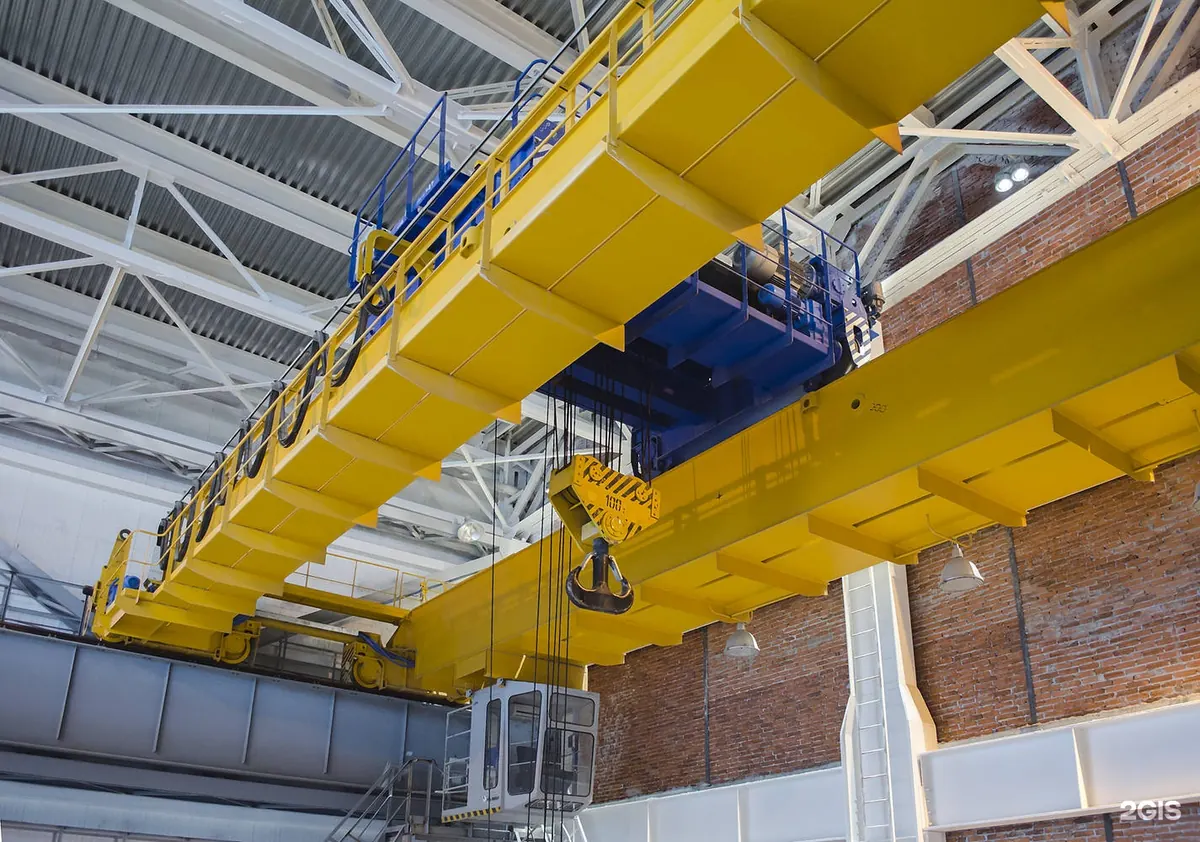
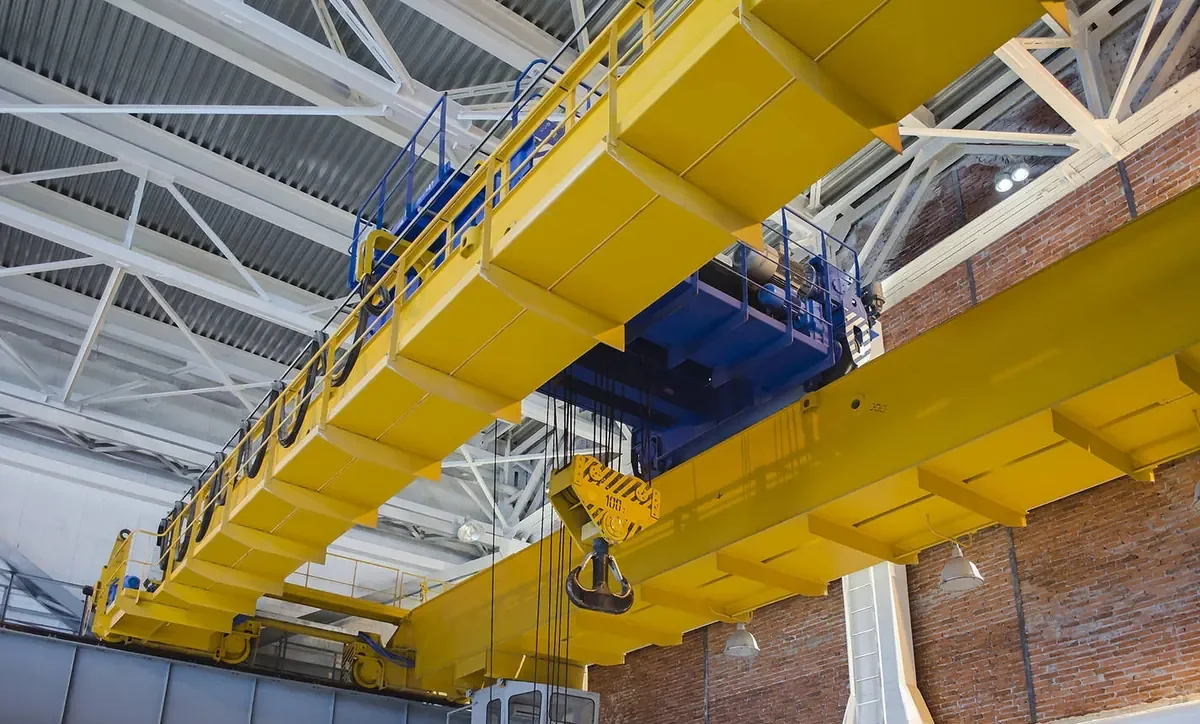
Живые фото вместо схем в «Видах и исполнениях», чужие водяные знаки убраны
- траверсы в каталоге: вместо видео сварки - фото 30-тонной траверсы на объекте
- мостовые, козловые, консольные краны и кран-балки: схемы заменены реальными
  фото клиента, как в грейферах, талях и траверсах; блок SVG-схем и его стили удалены
- козловые переразмечены по каталогу клиента: однобалочный, двухбалочный,
  полукозловой, уличного исполнения - под каждый вид есть свой снимок
- сняты карточки без фото: «Передвижной» у консольных, «Ручная» и «С двумя талями»
  у кран-балок - вернём, когда клиент пришлёт снимки
- убрано фото тали с водяным знаком чужого завода «ЕВРОКРАН» (было на карточке
  каталога и в модалке), поставлена канатная таль клиента
- у кадра площадки обслуживания срезан угол с меткой 2GIS
- удалён мини-козловой кран с водяным знаком стороннего поставщика
- два кропа 12:7 под плитки: var-gantry-double, var-jib-column
- бамп версии ассетов до 20260907-2

Claude-Session: https://claude.ai/code/session_01Bpo1JyxyDErRGTxL1pp3Qp

diff --git a/details.js b/details.js
@@ -1,28 +1,6 @@
 /* CRANE ENGINEERING - разделы каталога и металлообработки (модальные карточки) */
 'use strict';
 
-/* ---------- схемы исполнений (единый стиль: жёлтая несущая, стальная обвязка) ---------- */
-const SCH = {
-  // мостовые
-  bridgeSingle: '<svg viewBox="0 0 120 70"><path d="M8 14h104" class="s-rail"/><rect x="18" y="20" width="84" height="7" class="s-beam"/><path d="M18 20v-6h10v6M92 20v-6h10v6" class="s-steel"/><path d="M60 27v14" class="s-line"/><path d="M54 41h12v7H54z" class="s-steel-f"/><path d="M60 48v6" class="s-line"/><path d="M60 54a4 4 0 1 0 4 4" class="s-hook"/></svg>',
-  bridgeDouble: '<svg viewBox="0 0 120 70"><path d="M8 14h104" class="s-rail"/><rect x="18" y="19" width="84" height="6" class="s-beam"/><rect x="18" y="31" width="84" height="6" class="s-beam"/><path d="M18 19v-5h10v5M92 19v-5h10v5" class="s-steel"/><rect x="50" y="15" width="20" height="8" class="s-steel-f"/><path d="M60 37v8" class="s-line"/><path d="M54 45h12v7H54z" class="s-steel-f"/><path d="M60 52v4" class="s-line"/><path d="M60 56a4 4 0 1 0 4 4" class="s-hook"/></svg>',
-  bridgeSusp: '<svg viewBox="0 0 120 70"><path d="M8 10h104" class="s-rail"/><path d="M24 10v8M96 10v8" class="s-steel"/><rect x="18" y="18" width="84" height="7" class="s-beam"/><path d="M60 25v12" class="s-line"/><path d="M54 37h12v7H54z" class="s-steel-f"/><path d="M60 44v6" class="s-line"/><path d="M60 50a4 4 0 1 0 4 4" class="s-hook"/></svg>',
-  // козловые
-  gantryPlain: '<svg viewBox="0 0 120 70"><rect x="20" y="14" width="80" height="7" class="s-beam"/><path d="M26 21 20 58M94 21l6 37M8 58h104" class="s-steel"/><path d="M60 21v12" class="s-line"/><path d="M54 33h12v7H54z" class="s-steel-f"/><path d="M60 40v6" class="s-line"/><path d="M60 46a4 4 0 1 0 4 4" class="s-hook"/></svg>',
-  gantryOne: '<svg viewBox="0 0 120 70"><rect x="8" y="14" width="92" height="7" class="s-beam"/><path d="M34 21 28 58M94 21l6 37M8 58h104" class="s-steel"/><path d="M22 21v10" class="s-line"/><path d="M16 31h12v7H16z" class="s-steel-f"/><path d="M22 38v5" class="s-line"/><path d="M22 43a4 4 0 1 0 4 4" class="s-hook"/></svg>',
-  gantryTwo: '<svg viewBox="0 0 120 70"><rect x="6" y="14" width="108" height="7" class="s-beam"/><path d="M38 21 32 58M82 21l6 37M8 58h104" class="s-steel"/><path d="M60 21v12" class="s-line"/><path d="M54 33h12v7H54z" class="s-steel-f"/><path d="M60 40v6" class="s-line"/><path d="M60 46a4 4 0 1 0 4 4" class="s-hook"/></svg>',
-  gantryMini: '<svg viewBox="0 0 120 70"><rect x="34" y="20" width="52" height="6" class="s-beam"/><path d="M40 26 36 54M80 26l4 28" class="s-steel"/><circle cx="35" cy="57" r="4" class="s-steel"/><circle cx="85" cy="57" r="4" class="s-steel"/><path d="M60 26v10" class="s-line"/><path d="M55 36h10v6H55z" class="s-steel-f"/><path d="M60 42v5" class="s-line"/><path d="M60 47a3 3 0 1 0 3 3" class="s-hook"/></svg>',
-  // консольные
-  jibColumn: '<svg viewBox="0 0 120 70"><rect x="26" y="12" width="9" height="46" class="s-steel-f"/><rect x="30" y="14" width="66" height="6" class="s-beam"/><path d="M32 34 60 20" class="s-steel"/><path d="M84 20v12" class="s-line"/><path d="M79 32h10v6H79z" class="s-steel-f"/><path d="M84 38v6" class="s-line"/><path d="M84 44a4 4 0 1 0 4 4" class="s-hook"/><path d="M16 58h32" class="s-rail"/></svg>',
-  jibWall: '<svg viewBox="0 0 120 70"><path d="M18 8v54" class="s-rail"/><rect x="22" y="16" width="72" height="6" class="s-beam"/><path d="M22 40 52 22" class="s-steel"/><path d="M82 22v12" class="s-line"/><path d="M77 34h10v6H77z" class="s-steel-f"/><path d="M82 40v6" class="s-line"/><path d="M82 46a4 4 0 1 0 4 4" class="s-hook"/></svg>',
-  jibMobile: '<svg viewBox="0 0 120 70"><rect x="36" y="16" width="9" height="38" class="s-steel-f"/><rect x="40" y="18" width="52" height="6" class="s-beam"/><path d="M42 36 66 24" class="s-steel"/><path d="M82 24v10" class="s-line"/><path d="M77 34h10v6H77z" class="s-steel-f"/><path d="M82 40v5" class="s-line"/><path d="M82 45a4 4 0 1 0 4 4" class="s-hook"/><rect x="26" y="54" width="30" height="5" class="s-steel"/><circle cx="32" cy="62" r="4" class="s-steel"/><circle cx="50" cy="62" r="4" class="s-steel"/></svg>',
-  // кран-балки
-  beamSupport: '<svg viewBox="0 0 120 70"><path d="M10 18h100" class="s-rail"/><rect x="20" y="24" width="80" height="6" class="s-beam"/><path d="M20 24v-6h8v6M92 24v-6h8v6" class="s-steel"/><path d="M60 30v10" class="s-line"/><path d="M54 40h12v7H54z" class="s-steel-f"/><path d="M60 47v6" class="s-line"/><path d="M60 53a4 4 0 1 0 4 4" class="s-hook"/></svg>',
-  beamSusp: '<svg viewBox="0 0 120 70"><path d="M10 12h100" class="s-rail"/><path d="M28 12v8M92 12v8" class="s-steel"/><rect x="20" y="20" width="80" height="6" class="s-beam"/><path d="M60 26v12" class="s-line"/><path d="M54 38h12v7H54z" class="s-steel-f"/><path d="M60 45v6" class="s-line"/><path d="M60 51a4 4 0 1 0 4 4" class="s-hook"/></svg>',
-  beamManual: '<svg viewBox="0 0 120 70"><rect x="20" y="20" width="80" height="6" class="s-beam"/><path d="M20 20v-6h8v6M92 20v-6h8v6" class="s-steel"/><path d="M60 26v8" class="s-line"/><path d="M55 34h10v6H55z" class="s-steel-f"/><path d="M64 40v14" class="s-chain"/><path d="M60 40v6" class="s-line"/><path d="M60 46a4 4 0 1 0 4 4" class="s-hook"/></svg>',
-  beamDouble: '<svg viewBox="0 0 120 70"><path d="M10 18h100" class="s-rail"/><rect x="20" y="24" width="80" height="6" class="s-beam"/><path d="M20 24v-6h8v6M92 24v-6h8v6" class="s-steel"/><path d="M40 30v10M80 30v10" class="s-line"/><path d="M34 40h12v7H34zM74 40h12v7H74z" class="s-steel-f"/><path d="M40 47v5M80 47v5" class="s-line"/><path d="M40 52a3 3 0 1 0 3 3M80 52a3 3 0 1 0 3 3" class="s-hook"/></svg>'
-};
-
 /* ---------- данные разделов ---------- */
 const DETAILS = {
   /* ===== КРАНЫ ===== */
@@ -32,9 +10,9 @@ const DETAILS = {
     kk: { t: 'Көпірлі крандар', lead: 'Цехтың негізгі краны: аралықты толық жауып, астындағы бүкіл алаңда жұмыс істейді.' },
     en: { t: 'Overhead cranes', lead: 'The main crane of a workshop: spans the full bay and works across the whole area below.' },
     variants: [
-      { s: SCH.bridgeSingle, ru: ['Однобалочный опорный', 'до 20 т, ходит по подкрановым путям'], kk: ['Бір арқалықты тіреуішті', '20 т-ға дейін, кран асты жолымен жүреді'], en: ['Single-girder, top-running', 'up to 20 t, runs on runway rails'] },
-      { s: SCH.bridgeDouble, ru: ['Двухбалочный опорный', 'до 200 т, большая высота подъёма'], kk: ['Екі арқалықты тіреуішті', '200 т-ға дейін, көтеру биіктігі жоғары'], en: ['Double-girder, top-running', 'up to 200 t, greater lifting height'] },
-      { s: SCH.bridgeSusp, ru: ['Подвесной', 'крепится к фермам, экономит высоту'], kk: ['Аспалы', 'фермаға бекітіледі, биіктікті үнемдейді'], en: ['Underhung', 'fixed to roof trusses, saves headroom'] }
+      { p: 'assets/bridge-single-top.webp', ru: ['Однобалочный опорный', 'до 20 т, ходит по подкрановым путям'], kk: ['Бір арқалықты тіреуішті', '20 т-ға дейін, кран асты жолымен жүреді'], en: ['Single-girder, top-running', 'up to 20 t, runs on runway rails'] },
+      { p: 'assets/bridge-double-light.webp', ru: ['Двухбалочный опорный', 'до 200 т, большая высота подъёма'], kk: ['Екі арқалықты тіреуішті', '200 т-ға дейін, көтеру биіктігі жоғары'], en: ['Double-girder, top-running', 'up to 200 t, greater lifting height'] },
+      { p: 'assets/bridge-susp-yellow.webp', ru: ['Подвесной', 'крепится к фермам, экономит высоту'], kk: ['Аспалы', 'фермаға бекітіледі, биіктікті үнемдейді'], en: ['Underhung', 'fixed to roof trusses, saves headroom'] }
     ],
     specs: {
       ru: [['Грузоподъёмность', '0,5-200 т'], ['Пролёт', '4,5-34 м'], ['Высота подъёма', 'до 30 м'], ['Режим работы', 'А3-А6'], ['Управление', 'с пола, радио, из кабины']],
@@ -45,7 +23,7 @@ const DETAILS = {
       { src: 'assets/bridge-double-close.webp', ru: 'Двухбалочный опорный кран в пролёте', kk: 'Аралықтағы екі арқалықты тіреуішті кран', en: 'Double-girder top-running crane in the bay' },
       { src: 'assets/bridge-double-hall.webp', ru: 'Кран в новом производственном корпусе', kk: 'Жаңа өндірістік корпустағы кран', en: 'Crane in a new production building' },
       { src: 'assets/bridge-double-coils.webp', ru: 'Работа с рулонами металла', kk: 'Металл орамдарымен жұмыс', en: 'Handling steel coils' },
-      { src: 'assets/bridge-double-walkway.webp', ru: 'Площадка обслуживания вдоль моста', kk: 'Көпір бойындағы қызмет көрсету алаңы', en: 'Service walkway along the bridge' },
+      { src: 'assets/bridge-double-walkway.webp?v=20260907', ru: 'Площадка обслуживания вдоль моста', kk: 'Көпір бойындағы қызмет көрсету алаңы', en: 'Service walkway along the bridge' },
       { src: 'assets/bridge-single-top.webp', ru: 'Однобалочный опорный кран', kk: 'Бір арқалықты тіреуішті кран', en: 'Single-girder top-running crane' },
       { src: 'assets/bridge-double-light.webp', ru: 'Кран над сборочным участком', kk: 'Құрастыру учаскесінің үстіндегі кран', en: 'Crane over the assembly area' }
     ]
@@ -56,10 +34,10 @@ const DETAILS = {
     kk: { t: 'Мосы крандар', lead: 'Ғимарат жоқ жерде жұмыс істейді: ашық аспан астындағы қоймалар, полигондар, контейнер алаңдары.' },
     en: { t: 'Gantry cranes', lead: 'For sites without a building: open storage yards, laydown areas, container terminals.' },
     variants: [
-      { s: SCH.gantryPlain, ru: ['Бесконсольный', 'вся зона работы между опорами'], kk: ['Консольсіз', 'жұмыс аймағы толығымен тіректер арасында'], en: ['Without cantilevers', 'the whole work area sits between the legs'] },
-      { s: SCH.gantryOne, ru: ['Одноконсольный', 'вылет за опору с одной стороны'], kk: ['Бір консольді', 'бір жағында тіректен шығыңқы'], en: ['Single cantilever', 'reach beyond the leg on one side'] },
-      { s: SCH.gantryTwo, ru: ['Двухконсольный', 'вылет с обеих сторон, шире зона'], kk: ['Екі консольді', 'екі жағында да шығыңқы, аймақ кеңірек'], en: ['Double cantilever', 'reach on both sides, wider coverage'] },
-      { s: SCH.gantryMini, ru: ['Мини и передвижные', 'лёгкие, перевозятся между площадками'], kk: ['Шағын және жылжымалы', 'жеңіл, алаңдар арасында тасымалданады'], en: ['Mini and portable', 'light, moved between sites'] }
+      { p: 'assets/gantry-single.webp', ru: ['Однобалочный', 'до 20 т, консоль за опору'], kk: ['Бір арқалықты', '20 т дейін, тіректен шығыңқы консоль'], en: ['Single-girder', 'up to 20 t, cantilever past the leg'] },
+      { p: 'assets/var-gantry-double.webp', ru: ['Двухбалочный', 'до 50 т, большие пролёты и высота'], kk: ['Екі арқалықты', '50 т дейін, үлкен аралық пен биіктік'], en: ['Double-girder', 'up to 50 t, long spans and greater height'] },
+      { p: 'assets/semi-gantry.webp', ru: ['Полукозловой', 'одна опора на полу, вторая по стене'], kk: ['Жартылай мосы', 'бір тірегі еденде, екіншісі қабырғада'], en: ['Semi-gantry', 'one leg on the floor, the other on a wall rail'] },
+      { p: 'assets/crane-gantry-outdoor.webp', ru: ['Уличного исполнения', 'работа под открытым небом, до -40 °C'], kk: ['Далалық орындалуы', 'ашық аспан астында жұмыс, -40 °C дейін'], en: ['Outdoor version', 'works in the open, down to -40 °C'] }
     ],
     specs: {
       ru: [['Грузоподъёмность', '1-50 т'], ['Пролёт', '8-40 м'], ['Вылет консоли', 'до 8 м'], ['Высота подъёма', 'до 16 м'], ['Исполнение', 'уличное, до -40 °C']],
@@ -71,8 +49,7 @@ const DETAILS = {
       { src: 'assets/gantry-single.webp', ru: 'Однобалочный козловой кран на площадке', kk: 'Алаңдағы бір арқалықты мосы кран', en: 'Single-girder gantry crane on site' },
       { src: 'assets/semi-gantry.webp', ru: 'Полукозловой кран в цехе', kk: 'Цехтегі жартылай мосы кран', en: 'Semi-gantry crane in a workshop' },
       { src: 'assets/semi-gantry-low.webp', ru: 'Опора полукозлового крана', kk: 'Жартылай мосы кранның тірегі', en: 'Semi-gantry crane leg' },
-      { src: 'assets/crane-gantry-outdoor.webp', ru: 'Монтаж козлового крана на объекте', kk: 'Нысанда мосы кранды монтаждау', en: 'Gantry crane erection on site' },
-      { src: 'assets/crane-gantry-mobile.webp', ru: 'Передвижной мини-козловой кран', kk: 'Жылжымалы шағын мосы кран', en: 'Portable mini gantry crane' }
+      { src: 'assets/crane-gantry-outdoor.webp', ru: 'Монтаж козлового крана на объекте', kk: 'Нысанда мосы кранды монтаждау', en: 'Gantry crane erection on site' }
     ]
   },
   jib: {
@@ -81,9 +58,8 @@ const DETAILS = {
     kk: { t: 'Консольді крандар', lead: 'Бір жұмыс орнының краны: станок, дәнекерлеу посты, құрастыру учаскесі. Цехты қайта құрмай орнатылады.' },
     en: { t: 'Jib cranes', lead: 'A crane for one workstation: a machine, a welding bay, an assembly spot. Installed without rebuilding the shop.' },
     variants: [
-      { s: SCH.jibColumn, ru: ['На колонне', 'поворот 180° или 360°'], kk: ['Бағанада', '180° немесе 360° бұрылыс'], en: ['Column-mounted', '180° or 360° slew'] },
-      { s: SCH.jibWall, ru: ['Настенный', 'крепится к колонне здания'], kk: ['Қабырғалық', 'ғимарат бағанасына бекітіледі'], en: ['Wall-mounted', 'fixed to a building column'] },
-      { s: SCH.jibMobile, ru: ['Передвижной', 'на тележке, без фундамента'], kk: ['Жылжымалы', 'арбашада, іргетассыз'], en: ['Portable', 'on a base frame, no foundation'] }
+      { p: 'assets/var-jib-column.webp', ru: ['На колонне', 'поворот 180° или 360°'], kk: ['Бағанада', '180° немесе 360° бұрылыс'], en: ['Column-mounted', '180° or 360° slew'] },
+      { p: 'assets/jib-wall.webp', ru: ['Настенный', 'крепится к колонне здания'], kk: ['Қабырғалық', 'ғимарат бағанасына бекітіледі'], en: ['Wall-mounted', 'fixed to a building column'] }
     ],
     specs: {
       ru: [['Грузоподъёмность', '0,25-5 т'], ['Вылет стрелы', '2-8 м'], ['Угол поворота', '180° / 270° / 360°'], ['Привод', 'ручной или электрический'], ['Монтаж', 'на фундамент или к колонне']],
@@ -103,10 +79,8 @@ const DETAILS = {
     kk: { t: 'Кран-балкалар', lead: 'Цех пен шеберханаға арналған жеңіл кран: бір арқалық, таль, қарапайым электрика.' },
     en: { t: 'Beam cranes', lead: 'A light crane for shops and workshops: one girder, a hoist, simple wiring.' },
     variants: [
-      { s: SCH.beamSupport, ru: ['Опорная', 'катится по подкрановым путям'], kk: ['Тіреуішті', 'кран асты жолымен домалайды'], en: ['Top-running', 'rolls along runway rails'] },
-      { s: SCH.beamSusp, ru: ['Подвесная', 'подвешена к перекрытию'], kk: ['Аспалы', 'жабынға ілінеді'], en: ['Underhung', 'suspended from the roof structure'] },
-      { s: SCH.beamManual, ru: ['Ручная', 'без электрики, до 5 т'], kk: ['Қолмен басқарылатын', 'электрикасыз, 5 т дейін'], en: ['Manual', 'no wiring, up to 5 t'] },
-      { s: SCH.beamDouble, ru: ['С двумя талями', 'для длинномерных грузов'], kk: ['Екі тальді', 'ұзын жүктерге'], en: ['Twin hoist', 'for long loads'] }
+      { p: 'assets/bridge-single-shop.webp', ru: ['Опорная', 'катится по подкрановым путям'], kk: ['Тіреуішті', 'кран асты жолымен домалайды'], en: ['Top-running', 'rolls along runway rails'] },
+      { p: 'assets/bridge-susp-blue.webp', ru: ['Подвесная', 'к перекрытию, гибкий токоподвод'], kk: ['Аспалы', 'жабынға ілінеді, иілгіш ток өткізгіш'], en: ['Underhung', 'from the roof, festoon power supply'] }
     ],
     specs: {
       ru: [['Грузоподъёмность', '0,5-10 т'], ['Пролёт', '3-16 м'], ['Высота подъёма', 'до 12 м'], ['Скорость подъёма', '4 / 8 м/мин'], ['Управление', 'пульт с пола или радио']],
@@ -145,7 +119,7 @@ const DETAILS = {
     ]
   },
   hoist: {
-    hero: 'assets/hoist-vfd.webp',
+    hero: 'assets/hoist-rope.webp',
     ru: { t: 'Тали и тельферы', lead: 'Механизм подъёма: ставится на кран-балку, консольный кран или отдельную балку.' },
     kk: { t: 'Тальдар мен тельферлер', lead: 'Көтеру механизмі: кран-балкаға, консольді кранға немесе жеке арқалыққа орнатылады.' },
     en: { t: 'Hoists', lead: 'The lifting unit itself: fitted to a beam crane, a jib crane or a standalone girder.' },
@@ -160,7 +134,6 @@ const DETAILS = {
       en: [['Capacity', '0.25-20 t'], ['Lifting height', '6-36 m'], ['Hoisting speed', '2 / 4 / 8 m/min'], ['Duty class', 'M3-M6'], ['Control', 'pendant or radio']]
     },
     photos: [
-      { src: 'assets/hoist-vfd.webp', ru: 'Таль с частотным управлением на балке', kk: 'Арқалықтағы жиілікпен басқарылатын таль', en: 'Hoist with VFD control on a girder' },
       { src: 'assets/hoist-rope.webp', ru: 'Канатная электрическая таль', kk: 'Электрлі арқанды таль', en: 'Electric wire rope hoist' },
       { src: 'assets/hoist-shop-real.webp', ru: 'Сборка механизма подъёма в цехе', kk: 'Цехте көтеру механизмін құрастыру', en: 'Assembling a hoisting unit in the shop' },
       { src: 'assets/hoist-chain.webp', ru: 'Цепная таль с пультом управления', kk: 'Басқару пульті бар шынжырлы таль', en: 'Chain hoist with pendant control' },
@@ -363,7 +336,7 @@ const DL = {
     if (d.variants && d.variants.length) {
       vars = `<h4 class="dt-h">${t.variants}</h4><div class="dt-vars">` + d.variants.map(v => {
         const c = v[L] || v.ru;
-        const media = v.s ? `<div class="dt-sch">${v.s}</div>` : `<div class="dt-vimg"><img src="${v.p}" alt="${esc(c[0])}" loading="lazy" decoding="async"></div>`;
+        const media = `<div class="dt-vimg"><img src="${v.p}" alt="${esc(c[0])}" loading="lazy" decoding="async"></div>`;
         return `<article class="dt-var">${media}<h5>${esc(c[0])}</h5><p>${esc(c[1])}</p></article>`;
       }).join('') + '</div>';
     }

diff --git a/styles.css b/styles.css
@@ -182,12 +182,6 @@ body.menu-open .burger span:nth-child(3){transform:translateY(-7.5px) rotate(-45
   background:linear-gradient(185deg,rgba(8,9,11,.06) 38%,rgba(8,9,11,.88) 82%);
   pointer-events:none;
 }
-.card-live{
-  position:absolute;top:16px;right:16px;z-index:2;display:flex;align-items:center;gap:8px;
-  font:600 11.5px/1 "Onest",sans-serif;letter-spacing:.04em;color:var(--ink);
-  background:rgba(8,9,11,.68);padding:8px 12px;border-radius:99px;
-}
-.card-live i{width:8px;height:8px;border-radius:50%;background:#FF4B33;animation:blink 1.4s ease-in-out infinite}
 @keyframes blink{50%{opacity:.25}}
 .card-body{position:relative;z-index:2;width:100%;padding:24px 24px 22px}
 .card-body h3{font:700 clamp(20px,2vw,26px)/1.15 "Geologica",sans-serif}
@@ -598,19 +592,8 @@ body.dt-open{overflow:hidden}
 .dt-var:hover{border-color:rgba(255,196,0,.4);transform:translateY(-3px)}
 .dt-var h5{margin-top:12px;font:600 15px/1.25 "Geologica","Segoe UI",sans-serif}
 .dt-var p{margin-top:5px;font-size:13.5px;line-height:1.45;color:var(--mut)}
-.dt-sch{background:var(--bg);border-radius:12px;padding:10px}
-.dt-sch svg{display:block;width:100%;height:auto}
 .dt-vimg{border-radius:12px;overflow:hidden;aspect-ratio:12/7}
 .dt-vimg img{width:100%;height:100%;object-fit:cover}
-/* схемы: жёлтая несущая, стальная обвязка */
-.s-beam{fill:var(--yellow)}
-.s-steel-f{fill:#A7B0BA}
-.s-steel{fill:none;stroke:#A7B0BA;stroke-width:3;stroke-linecap:round;stroke-linejoin:round}
-.s-rail{fill:none;stroke:rgba(255,255,255,.34);stroke-width:3;stroke-linecap:round}
-.s-line{fill:none;stroke:#C9D1D9;stroke-width:2;stroke-linecap:round}
-.s-hook{fill:none;stroke:var(--yellow);stroke-width:2.4;stroke-linecap:round}
-.s-chain{fill:none;stroke:rgba(255,255,255,.45);stroke-width:2;stroke-dasharray:3 3}
-
 /* параметры */
 .dt-specs{display:grid;grid-template-columns:repeat(auto-fit,minmax(280px,1fr));gap:0 34px}
 .dt-specs > div{display:flex;align-items:baseline;gap:10px;padding:12px 2px;border-bottom:1px solid var(--line)}
@@ -644,8 +627,7 @@ body.dt-open{overflow:hidden}
 @media (max-width:560px){
   .dt-var{display:grid;grid-template-columns:118px 1fr;grid-template-rows:auto auto;
     align-content:center;column-gap:14px;padding:14px}
-  .dt-sch,.dt-vimg{grid-row:1/3;align-self:center}
-  .dt-sch{padding:8px}
+  .dt-vimg{grid-row:1/3;align-self:center}
   .dt-var h5{grid-column:2;align-self:end;margin-top:0}
   .dt-var p{grid-column:2;align-self:start;margin-top:4px}
 }

diff --git a/index.html b/index.html
@@ -21,7 +21,7 @@
 <link rel="preconnect" href="https://fonts.googleapis.com">
 <link rel="preconnect" href="https://fonts.gstatic.com" crossorigin>
 <link href="https://fonts.googleapis.com/css2?family=Geologica:wght@400;500;600;700;800&family=Onest:wght@400;500;600;700&display=swap" rel="stylesheet">
-<link rel="stylesheet" href="styles.css?v=20260907-1">
+<link rel="stylesheet" href="styles.css?v=20260907-2">
 <script type="application/ld+json">
 {
   "@context": "https://schema.org",
@@ -195,7 +195,7 @@
         </div>
       </article>
       <article class="card c-f reveal" id="tali-telfery">
-        <img src="assets/hoist-vfd.webp" alt="Канатная электрическая таль с частотным управлением" loading="lazy" decoding="async">
+        <img src="assets/hoist-rope.webp" alt="Канатная электрическая таль на кран-балке" loading="lazy" decoding="async">
         <div class="card-body">
           <h3 data-i18n="c6.t">Тали и тельферы</h3>
           <p data-i18n="c6.d">Электрические канатные и цепные</p>
@@ -206,8 +206,7 @@
         </div>
       </article>
       <article class="card c-g reveal" id="traversy">
-        <video src="assets/welding.mp4" poster="assets/welding-poster.webp" muted loop autoplay playsinline preload="metadata" aria-label="Сварка траверсы в цехе CRANE ENGINEERING"></video>
-        <span class="card-live" aria-hidden="true"><i></i><span data-i18n="c7.badge">видео из нашего цеха</span></span>
+        <img src="assets/traverse-long-out.webp" alt="Длинномерная траверса на объекте, грузоподъёмность 30 т" loading="lazy" decoding="async">
         <div class="card-body">
           <h3 data-i18n="c7.t">Траверсы</h3>
           <p data-i18n="c7.d">Под груз любой геометрии - по вашему ТЗ</p>
@@ -642,7 +641,7 @@
   </div>
 </div>
 
-<script src="script.js?v=20260907-1"></script>
-<script src="details.js?v=20260907-1"></script>
+<script src="script.js?v=20260907-2"></script>
+<script src="details.js?v=20260907-2"></script>
 </body>
 </html>

diff --git a/script.js b/script.js
@@ -39,7 +39,6 @@ const I18N = {
     'c5.t': 'Грейферлер', 'c5.d': 'Арқанды және моторлы, екі және көп жақты',
     'c6.t': 'Тальдар мен тельферлер', 'c6.d': 'Электрлік арқанды және шынжырлы',
     'c7.t': 'Траверсалар', 'c7.d': 'Кез келген жүк пішініне - тапсырмаңыз бойынша',
-    'c7.badge': 'өз цехымыздан видео',
     'c8.t': 'Бейстандарт тапсырма ма?', 'c8.d': 'Сызбаңыз бойынша жасаймыз немесе нөлден жобалаймыз',
     'c8.btn': 'Тапсырманы талқылау',
     'comp.h3': 'Кран жинақтауыштары',
@@ -141,7 +140,6 @@ const I18N = {
     'c5.t': 'Grabs', 'c5.d': 'Rope and motor driven, two jaw and multi jaw',
     'c6.t': 'Hoists', 'c6.d': 'Electric wire rope and chain hoists',
     'c7.t': 'Lifting beams', 'c7.d': 'For loads of any geometry, built to your spec',
-    'c7.badge': 'live video from our shop',
     'c8.t': 'A custom task?', 'c8.d': 'We build to your drawings or design from scratch',
     'c8.btn': 'Discuss the task',
     'comp.h3': 'Crane components',
